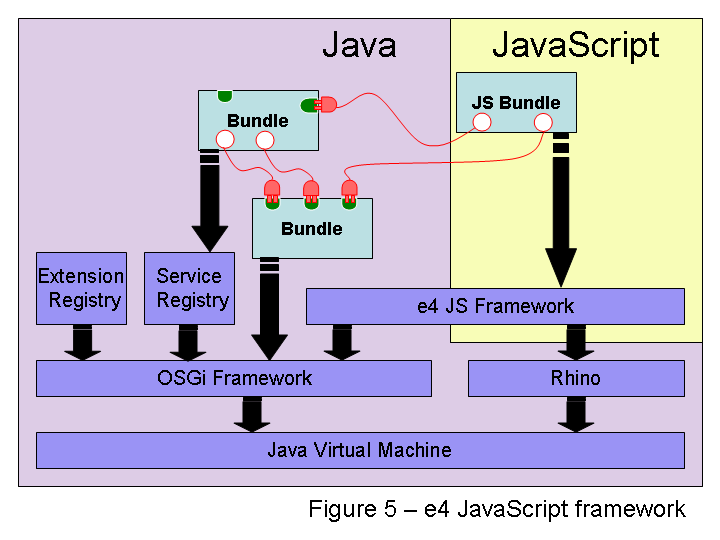
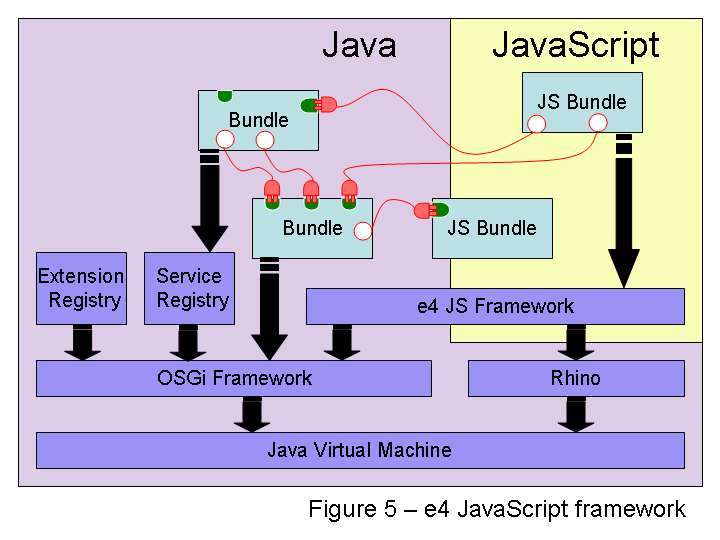
web to desktop

diff --git a/resources/e4-whitepaper.php b/resources/e4-whitepaper.php
@@ -216,6 +216,24 @@ ob_start();
 		 	illustrated in figure 2.
 		 	<img border="1" width="350" alt="Diagram of e4 service model" src="images/service-model.png"/>
 		 	</p>
+		 	<h4 id="appservices">Eclipse application services (the &quot;twenty things&quot;)</h4>
+		 	<p>
+		 	To support this decoupled service programming model, Eclipse APIs need to
+		 	be made available as services rather than via the singleton accessor model
+		 	of the past (<tt>Platform</tt>, <tt>IWorkbench</tt>, etc). However, over
+		 	the years the Eclipse platform has accumulated a vast API, of which many
+		 	components use only a few. This API breadth alone make Eclipse a challenging
+		 	platform to build applications on; the steep learning curve increases time
+		 	to value and discourages casual developers from building on the platform. This
+		 	is being addressed in e4 by defining a core set of services that capture a broad
+		 	swath of useful platform functionality. The goal is that many developers should
+		 	be able to build well integrated e4 bundles using only these core services. These
+		 	core services are occasionally referred to in e4 discussions as the &quot;twenty things&quot;,
+		 	to capture the fact that it is a bounded set of important services. These core
+		 	services also define a good starting point for integration of the Eclipse platform
+		 	with other programming languages. This is discussed further in the later
+		 	section on <a href="#20thingsJavaScript">JavaScript integration</a>.
+		 	</p>
 		<h3 id="guimodel"><strong>Modeled User Interface</strong></h3>
 			<p>
 			The previous generation of the Eclipse platform UI (called the <i>workbench</i>)
@@ -371,15 +389,25 @@ ob_start();
 		 	level (as with the <tt>Require-Bundle</tt> OSGi header), or at the level of individual
 		 	script files (similar to the <tt>Import-Package</tt> OSGi header). These
 		 	dependencies are expressed in the JavaScript manifest, written as a 
-		 	<a href="http://www.json.org/">JSON</a> file:
+		 	<a href="http://www.json.org/">JSON</a> file. Here is an example of a simple
+		 	JavaScript bundle manifest:
 			<code>
-			<br>&nbsp;&nbsp;&nbsp;
-			<br>&nbsp;&nbsp;&nbsp;&nbsp;&nbsp;
-			<br>&nbsp;&nbsp;&nbsp;&nbsp;&nbsp;
-			<br>&nbsp;&nbsp;&nbsp;
-			<br>&nbsp;&nbsp;&nbsp;
-			<br>&nbsp;&nbsp;&nbsp;&nbsp;&nbsp;
-			<br>&nbsp;&nbsp;&nbsp;
+			<br>&nbsp;&nbsp;&nbsp;{
+			<br>&nbsp;&nbsp;&nbsp;&nbsp;&nbsp;"Bundle-SymbolicName":"sample.jsbundle",
+			<br>&nbsp;&nbsp;&nbsp;&nbsp;&nbsp;"Bundle-Version":"1.0",
+			<br>&nbsp;&nbsp;&nbsp;&nbsp;&nbsp;"Bundle-ScriptPath":"script.js",
+			<br>&nbsp;&nbsp;&nbsp;&nbsp;&nbsp;"Import-Package":"a.resource;version=[1.0.0,2.0.0)",
+			<br>&nbsp;&nbsp;&nbsp;&nbsp;&nbsp;"Export-Package":"sample.resource;version=1.0.0",
+			<br>&nbsp;&nbsp;&nbsp;&nbsp;&nbsp;"Require-Bundle:"some.other.bundle", 
+			<br>&nbsp;&nbsp;&nbsp;}
+			</code>
+			</p>
+			<p>
+			A JavaScript bundle can be defined and installed into the framework programmatically,
+			or the presence of a JavaScript bundle can be declared in a regular OSGi bundle
+			using an additional manifest header:
+			<code>
+			<br>&nbsp;&nbsp;&nbsp;{JavaScript-Bundle: scripts/bundle.json
 			</code>
 			</p>
 			<p>
@@ -394,11 +422,35 @@ ob_start();
 			provides an Eclipse extension factory for instantiating Eclipse extensions written
 			purely in JavaScript. A JavaScript bundle can simply declare a <tt>plugin.xml</tt>
 			file with their contributions to the extension registry, without writing a line of 
-			Java code. This interaction between JavaScript and Java bundles is illustrated
-			in figure 5.
+			Java code. Bundles written in Java can then consume those extensions without
+			knowing they are written in another language. Conversely, a JavaScript bundle
+			can declare an extension point with some corresponding Java API that can
+			be implemented by Java bundles, and then load and use extensions contributed
+			to that extension point in JavaScript code. These types of interaction between 
+			JavaScript and Java bundles are illustrated in figure 5.
 			</p>
-		 	
-		 	It performs all of the duties that the OSGi framework 
+			<p>
+			The e4 JavaScript framework itself defines API in both Java and JavaScript. Thus
+			pure Java bundles can query or manipulate the JavaScript framework (for example
+			install a new JavaScript bundle), and bundles written in JavaScript can interact
+			with the framework through its JavaScript API. This is illustrated in figure 5 by
+			the <i>e4 JS Framework</i> block extending across the Java/JavaScript boundary.
+			</p>
+			<p id="20thingsJavaScript">
+			The e4 programming model also directly supports integration of components
+			written in other languages such as JavaScript. With service-based interaction
+			between components, and dependency injection, components never need
+			to know what language services are implemented in, or what languages are
+			being used to consume the services they expose. Similarly, the pared down
+			<a href="#appservices">Eclipse Application Services</a> can be exposed
+			as API stubs in other languages so that a broad segment of the Eclipse platform
+			functionality can be quickly made available to other bundles written in other languages.
+			A small JavaScript API for interacting with these core e4 services is currently available
+			in the bundle <tt>org.eclipse.e4.ui.web</tt>. As a proof of concept, e4
+			includes a re-implementation of the PDE update site editor written purely
+			in JavaScript. This editor can be run in a web browser, or seamlessly
+			integrated into the Eclipse platform user interface.
+		 	</p>
 			
 			
 			
